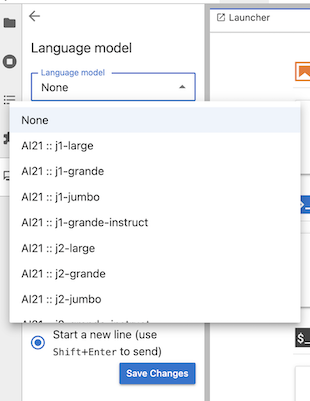
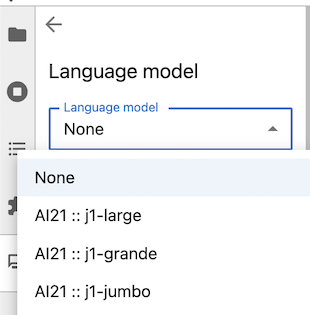
Update snapshots to use the same zoom level

Changed region(s): [[0.0, 0.0, 1.0, 1.0], [0.871, 0.4, 0.9, 0.4286]]

diff --git a/docs/source/users/index.md b/docs/source/users/index.md
@@ -161,11 +161,7 @@ For example, to use OpenAI models, use the chat interface settings panel to choo
     alt="Screen shot of the chat settings interface with language model dropdown open"
     class="screenshot" />
 
-Then, enter your API key in the 'API Keys' section:
-
-<img src="../_static/chat-settings-enter-api-key.png"
-    alt="Screen shot of the API key input in the chat settings interface"
-    class="screenshot" />
+Then, enter your API key in the 'API Keys' section.
 
 Alternatively, to set the API key through a config file, first determine your data directory path by running the following command in your terminal:
 
